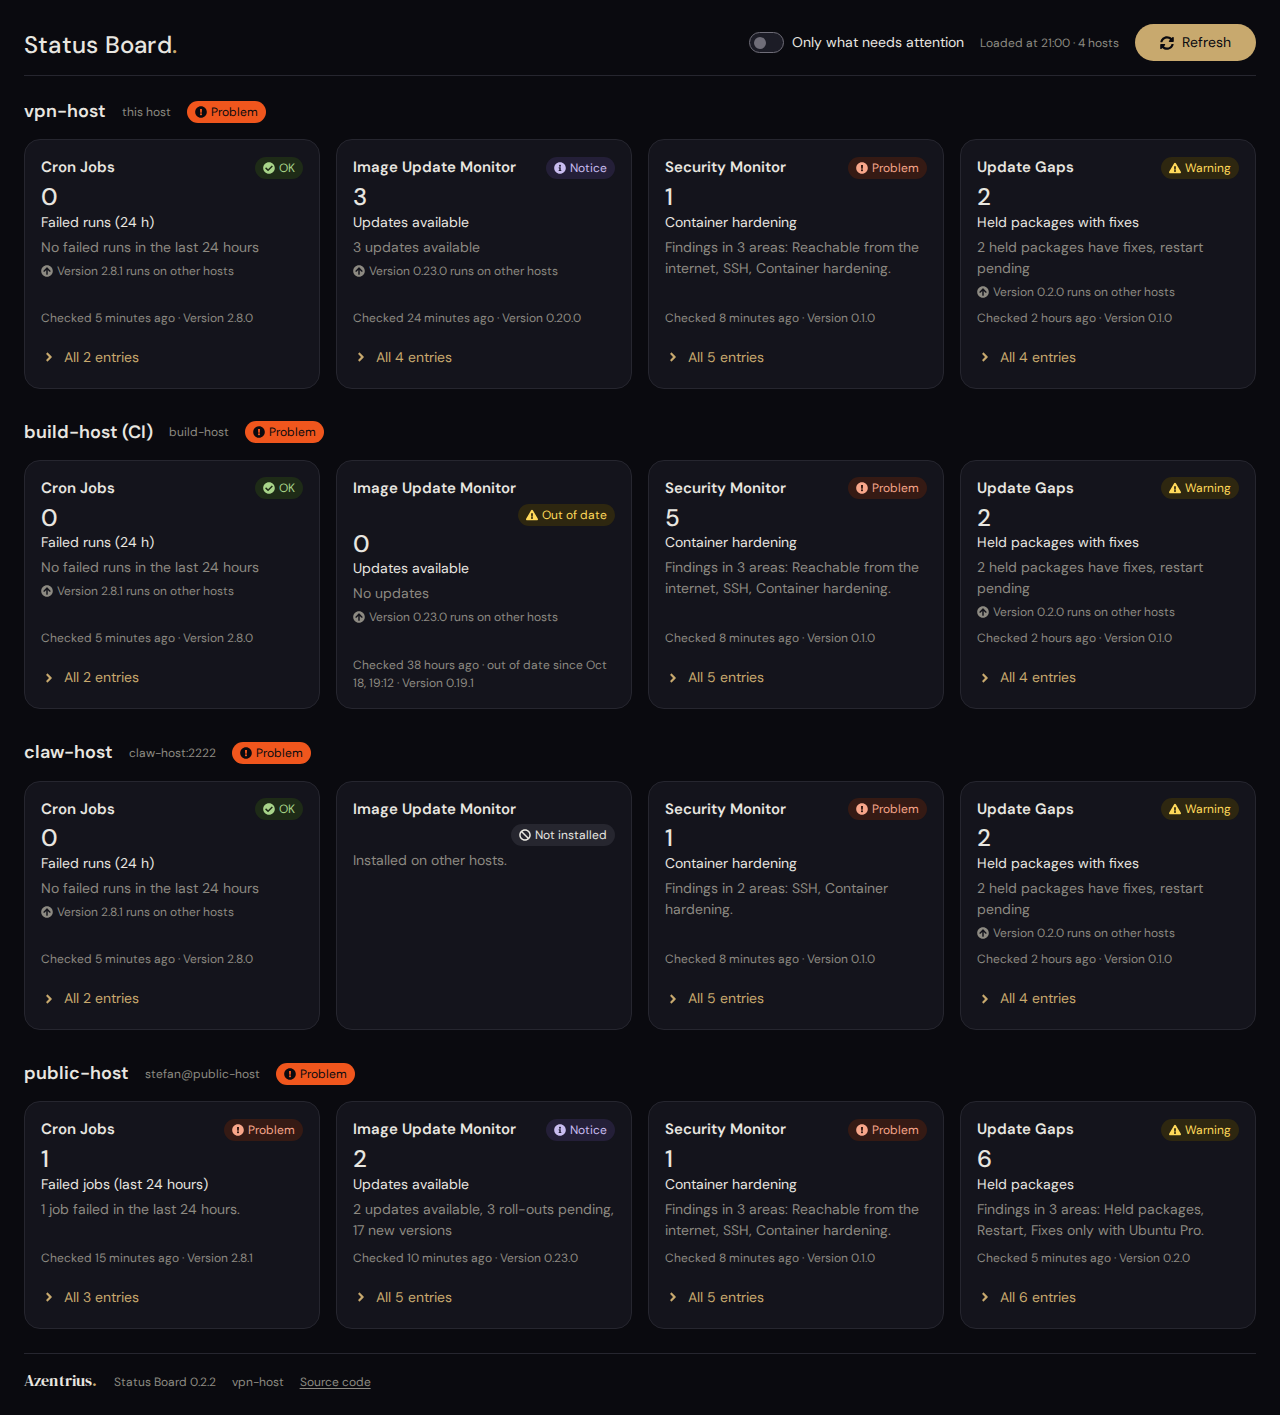
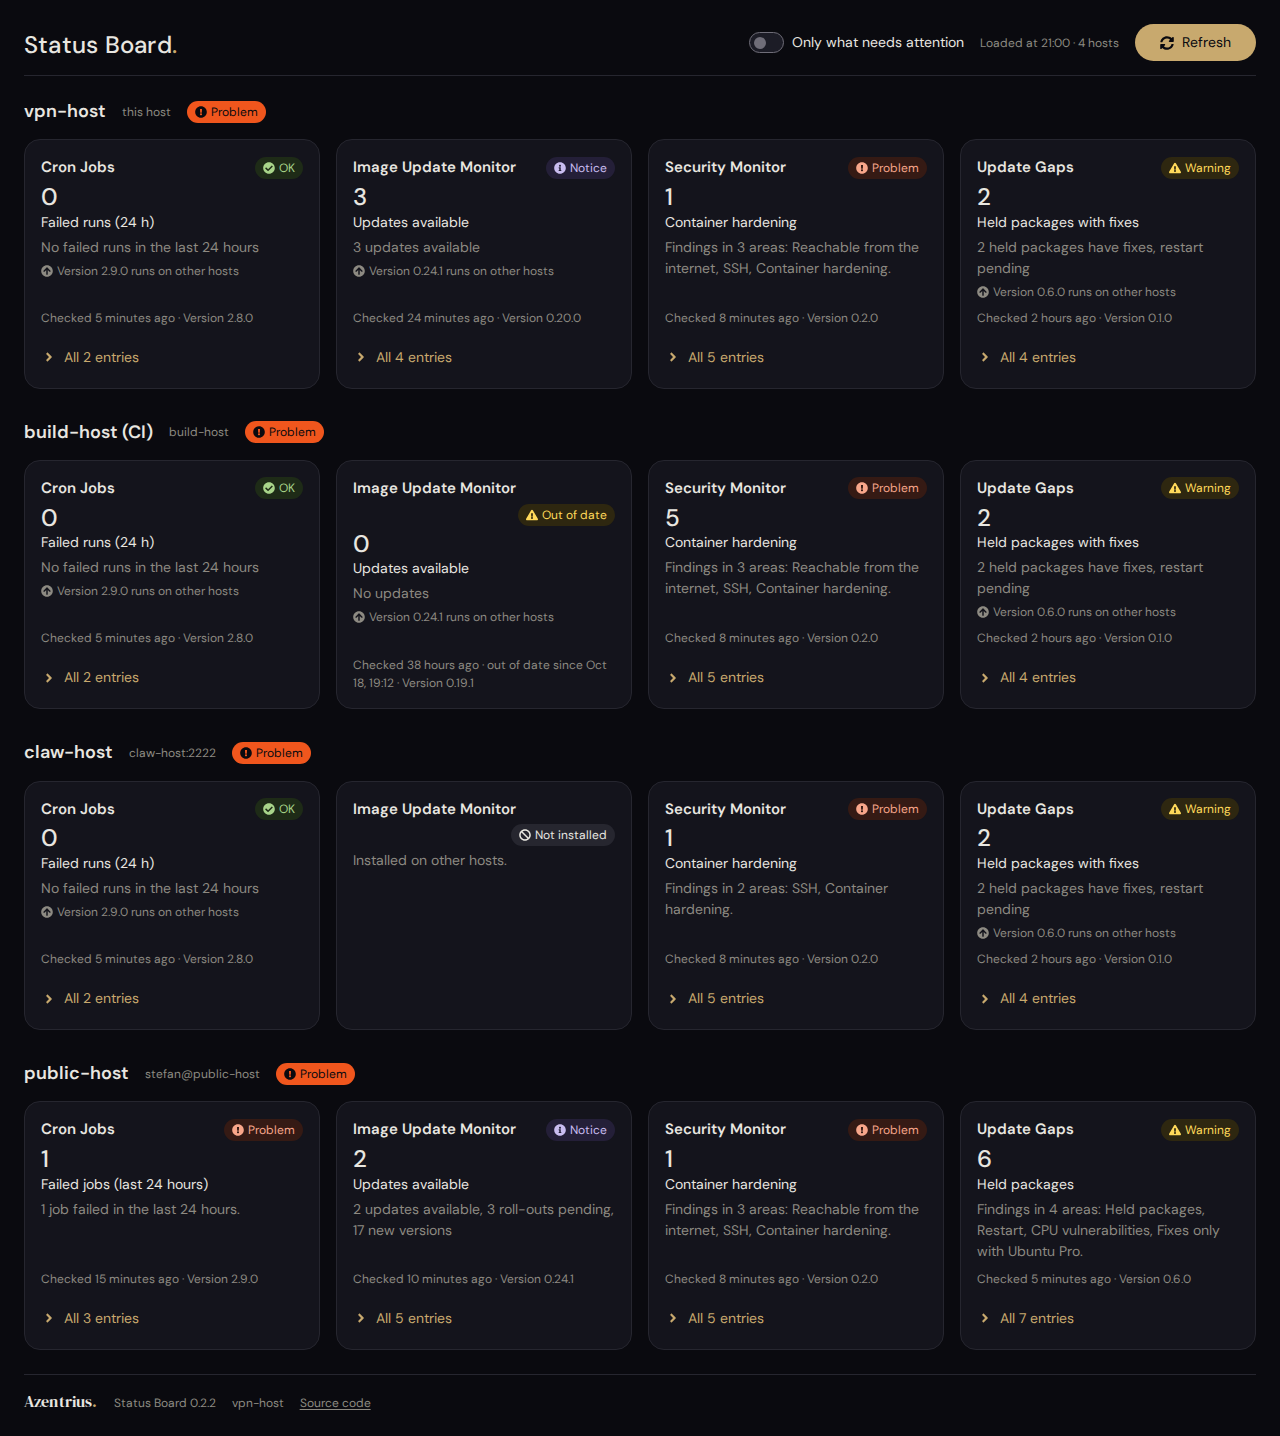
Take the add-ons' real answers from their current releases (#12)
The board's real answers (`test/fixtures/status/real-*.json`, English
and German) came from older versions of the add-ons (Cron Jobs 2.8.1,
Image Update Monitor 0.23.0, Update Gaps 0.2.0, Security Monitor 0.1.0).
The servers now run newer ones; this takes the answers from the current
releases, made by each add-on's own code from a `git archive` of its
release tag, as in #2, #6 and #8. Tests and docs only: no version, no
release.

| Fixture | Release | Made by | What changed |
|---|---|---|---|
| `real-cronjobs` | v2.9.0 | `status/cronjobs-status write`, then
`status --lang en/de`, on a throw-away crontab of root (one recorded job
whose last run an hour ago failed, `backup-db-7c1e`; one job without
recording), with the stand-ins for systemctl, pgrep and journalctl from
its own `test/status.test.js` | the cron item's detail names the unit:
"cron.service is running." |
| `real-image-updates` | v0.24.1 | `lib/diunstatus.py` and
`test/fixtures/status.json` are byte-identical to v0.23.0, so the answer
is the same apart from `version` | `version` 0.24.1 |
| `real-update-gaps` | v0.6.0 | `gaps-status.py` (`main(argv, path)`) on
`test/fixtures/status-noble-held.json` | a seventh item, `cpu` (info,
"tsa; only the provider can fix it (virtual machine)") |
| `real-security*` | v0.2.0 | the status file built as its own
`test/fixtures/make_states.py` builds it (the scan on the fake system of
each recording, `status_file` of the view with the marks), then
[…]

diff --git a/test/status.test.js b/test/status.test.js
@@ -35,13 +35,14 @@ const EXPECT = {
     "good-update-gaps.json": { state: "warning", reported: "warning", items: 4, key: "held", value: "2", link: "#/held" },
     "good-update-gaps.de.json": { state: "warning", reported: "warning", items: 4, key: "held", value: "2" },
     /* What the add-ons answer, from their own verbs on the fixtures of their repositories (times
-       moved to just before NOW): the key figure and the place in the add-on its link opens. */
+       moved to just before NOW): the key figure and the place in the add-on its link opens.
+       Cron Jobs 2.9.0, Image Update Monitor 0.24.1, Update Gaps 0.6.0, Security Monitor 0.2.0. */
     "real-cronjobs.json": { state: "danger", reported: "danger", items: 3, key: "failed", value: "1", link: "#/overview/results" },
     "real-cronjobs.de.json": { state: "danger", reported: "danger", items: 3, key: "failed", value: "1", link: "#/overview/results" },
     "real-image-updates.json": { state: "info", reported: "info", items: 5, key: "updates", value: "2", link: "#/updates/update" },
     "real-image-updates.de.json": { state: "info", reported: "info", items: 5, key: "updates", value: "2", link: "#/updates/update" },
-    "real-update-gaps.json": { state: "warning", reported: "warning", items: 6, key: "held", value: "6", link: "#/held" },
-    "real-update-gaps.de.json": { state: "warning", reported: "warning", items: 6, key: "held", value: "6", link: "#/held" },
+    "real-update-gaps.json": { state: "warning", reported: "warning", items: 7, key: "held", value: "6", link: "#/held" },
+    "real-update-gaps.de.json": { state: "warning", reported: "warning", items: 7, key: "held", value: "6", link: "#/held" },
     "real-security.json": { state: "danger", reported: "danger", items: 5, key: "containers", value: "1", link: "#/containers" },
     "real-security.de.json": { state: "danger", reported: "danger", items: 5, key: "containers", value: "1", link: "#/containers" },
     /* the Security Monitor on its recordings of the other three hosts: vpn-host, build-host, claw-host */
@@ -602,8 +603,8 @@ t("buildBoard: a tile says when another host runs a newer version", () => {
         okHost("c", false, [["image-updates", "image-updates"]], { "image-updates": status("real-image-updates.json") }),
     ], NOW);
     const newer = key => row(rows, key).tiles.map(x => [x.pkg, x.status.version, x.newer || null]);
-    assert.deepStrictEqual(newer("a"), [["image-updates", "0.19.1", "0.23.0"], ["update-gaps", "0.1.0", "0.2.0"]]);
-    assert.deepStrictEqual(newer("b"), [["image-updates", "0.20.0", "0.23.0"], ["update-gaps", "0.2.0", null]]);
+    assert.deepStrictEqual(newer("a"), [["image-updates", "0.19.1", "0.24.1"], ["update-gaps", "0.1.0", "0.6.0"]]);
+    assert.deepStrictEqual(newer("b"), [["image-updates", "0.20.0", "0.24.1"], ["update-gaps", "0.6.0", null]]);
     assert.deepStrictEqual(row(rows, "c").tiles.filter(x => x.kind === "status").map(x => x.newer || null), [null], "the newest says nothing");
 });
 

diff --git a/test/ui_test.py b/test/ui_test.py
@@ -491,12 +491,12 @@ with sync_playwright() as p:
     # versions: a tile says when another host runs a newer version of its add-on
     hints = dict(page.evaluate("""() => Array.from(document.querySelectorAll('.sb-tile__hint'))
         .map(x => [x.closest('.sb-tile').dataset.key, x.innerText.trim()])"""))
-    check(hints == {"localhost/cronjobs": "Version 2.8.1 runs on other hosts", "localhost/image-updates": "Version 0.23.0 runs on other hosts",
-                    "localhost/update-gaps": "Version 0.2.0 runs on other hosts", "build-host/cronjobs": "Version 2.8.1 runs on other hosts",
-                    "build-host/image-updates": "Version 0.23.0 runs on other hosts", "build-host/update-gaps": "Version 0.2.0 runs on other hosts",
-                    "claw-host/cronjobs": "Version 2.8.1 runs on other hosts", "claw-host/update-gaps": "Version 0.2.0 runs on other hosts"},
-          "older add-ons say which version runs elsewhere, the newest and the Security Monitor (0.1.0 everywhere) say nothing: " + repr(hints))
-    check(page.inner_text('[data-key="public-host/security"] .sb-tile__meta') == "Checked 8 minutes ago · Version 0.1.0",
+    check(hints == {"localhost/cronjobs": "Version 2.9.0 runs on other hosts", "localhost/image-updates": "Version 0.24.1 runs on other hosts",
+                    "localhost/update-gaps": "Version 0.6.0 runs on other hosts", "build-host/cronjobs": "Version 2.9.0 runs on other hosts",
+                    "build-host/image-updates": "Version 0.24.1 runs on other hosts", "build-host/update-gaps": "Version 0.6.0 runs on other hosts",
+                    "claw-host/cronjobs": "Version 2.9.0 runs on other hosts", "claw-host/update-gaps": "Version 0.6.0 runs on other hosts"},
+          "older add-ons say which version runs elsewhere, the newest and the Security Monitor (0.2.0 everywhere) say nothing: " + repr(hints))
+    check(page.inner_text('[data-key="public-host/security"] .sb-tile__meta') == "Checked 8 minutes ago · Version 0.2.0",
           "the version in the tile's facts: " + page.inner_text('[data-key="public-host/security"] .sb-tile__meta'))
     shot(page, "readme-board")
     tile(page, "public-host/security").click()
